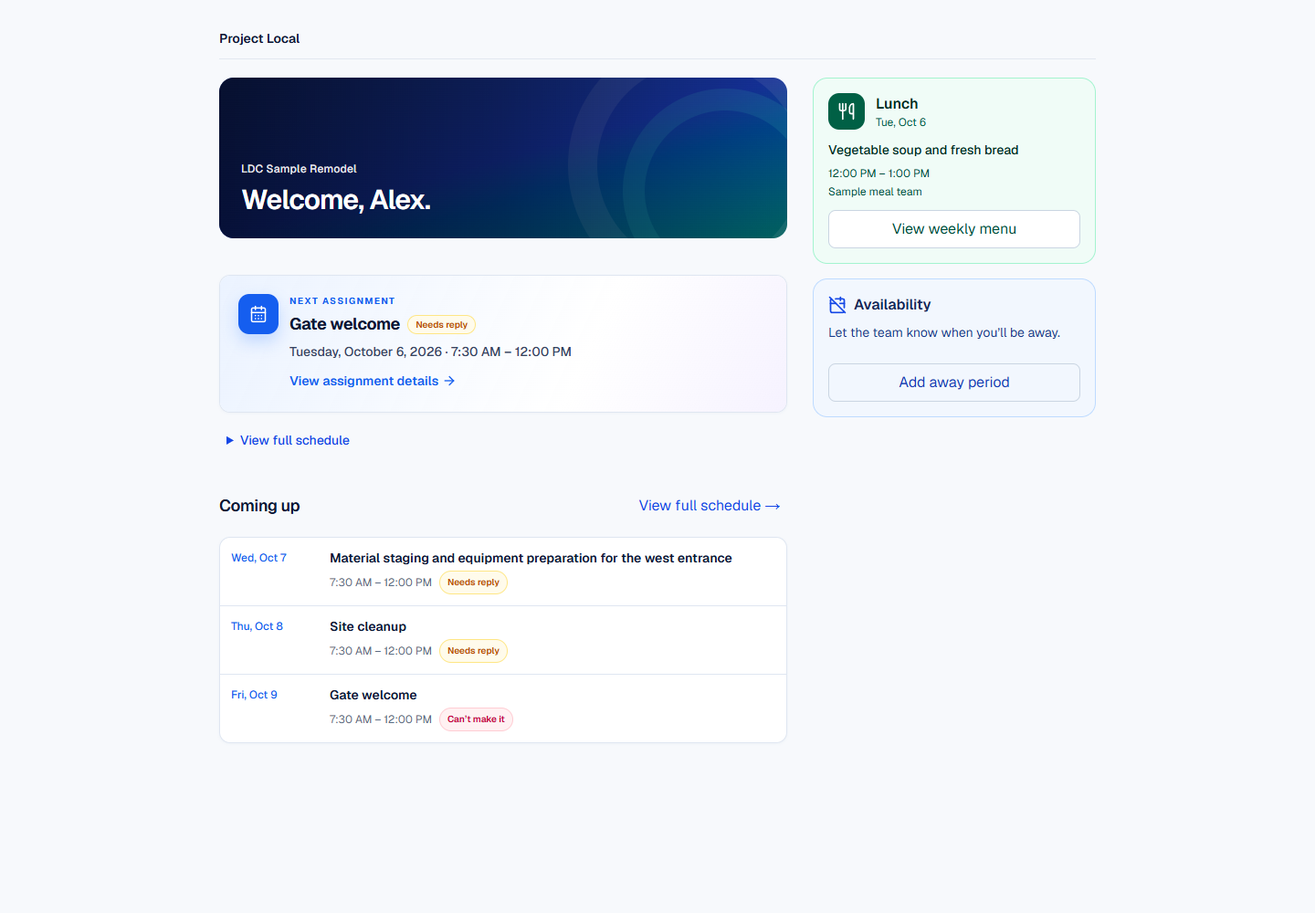
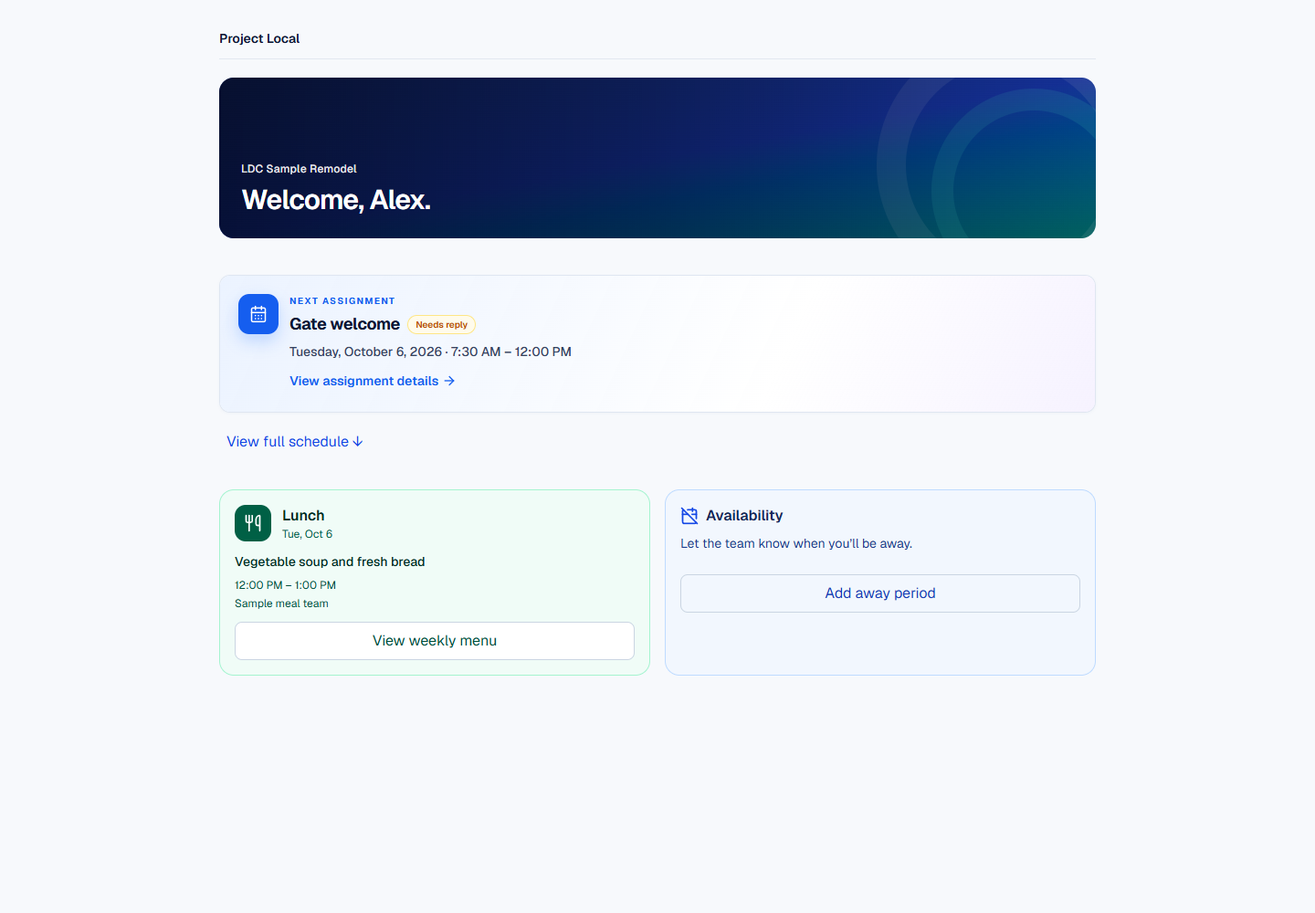
Correct volunteer home schedule to expand upcoming cards inline

diff --git a/cvc-scheduler/components/VolunteerHomeDashboard.tsx b/cvc-scheduler/components/VolunteerHomeDashboard.tsx
@@ -1,5 +1,5 @@
 "use client";
-import { useRef, useState, useTransition } from "react";
+import { useEffect, useRef, useState, useTransition } from "react";
 import { CalendarOff, ChevronLeft, ChevronRight, Utensils, X } from "lucide-react";
 import { ProjectHero } from "./ProjectHero";
 import { VolunteerScheduleClient } from "./VolunteerScheduleClient";
@@ -18,9 +18,23 @@ export function VolunteerHomeDashboard({ name, projectName, assignments, upcomin
   const [requestId, setRequestId] = useState(""), [removeId, setRemoveId] = useState<string | null>(null);
   const [pending, transition] = useTransition(); const dialog = useRef<HTMLDialogElement>(null);
   const menuDialog = useRef<HTMLDialogElement>(null), menuTrigger = useRef<HTMLButtonElement>(null);
-  const fullSchedule = useRef<HTMLDetailsElement>(null);
+  const [scheduleExpanded, setScheduleExpanded] = useState(false);
+  const scheduleToggle = useRef<HTMLButtonElement>(null);
   const next = upcoming.find(a => a.currentResponseStatus === "needs_response" && (a.canConfirm || a.canDecline)) ?? upcoming.find(a => a.currentResponseStatus !== "declined");
-  const additionalUpcoming = next ? upcoming.filter(a => a.assignmentReference !== next.assignmentReference).slice(0, 3) : [];
+  const additionalUpcoming = next ? upcoming.filter(a => a.assignmentReference !== next.assignmentReference) : [];
+  useEffect(() => {
+    if (!scheduleExpanded) return;
+    const frame = window.requestAnimationFrame(() => {
+      const toggle = scheduleToggle.current;
+      if (!toggle) return;
+      const context = Math.min(160, window.innerHeight * 0.2);
+      window.scrollTo({
+        top: Math.max(0, window.scrollY + toggle.getBoundingClientRect().top - context),
+        behavior: window.matchMedia("(prefers-reduced-motion: reduce)").matches ? "instant" : "smooth",
+      });
+    });
+    return () => window.cancelAnimationFrame(frame);
+  }, [scheduleExpanded]);
   const nextLunch = home?.meals.find(m => m.kind === "lunch" && m.date >= today);
   const week = home?.week ?? today;
   function away(command: string, id = requestId) {
@@ -35,16 +49,20 @@ export function VolunteerHomeDashboard({ name, projectName, assignments, upcomin
     transition(async () => { const value = await readMenuWeek(date.toISOString().slice(0, 10)); if (value) setHome(value); else setMenuError("Menu unavailable. Refresh to try again."); });
   }
   return <>
-    <div className="grid items-start gap-5 lg:grid-cols-[minmax(0,1fr)_310px] lg:gap-7">
-      <div className="min-w-0 lg:col-start-1 lg:row-start-1"><ProjectHero photo={home?.photo ?? defaultPhoto} projectName={projectName} title={`Welcome, ${name.trim().split(/\s+/)[0]}.`} /></div>
-      <section className="min-w-0 lg:col-start-1 lg:row-start-2" aria-label="Next assignment">
+    <div className="grid items-start gap-5 lg:gap-7">
+      <div className="min-w-0"><ProjectHero photo={home?.photo ?? defaultPhoto} projectName={projectName} title={`Welcome, ${name.trim().split(/\s+/)[0]}.`} /></div>
+      <section className="min-w-0" aria-label="Next assignment">
         {next ? <VolunteerScheduleClient presentation="next" assignments={[next]} showMeals={false} confirmAllAction={confirmAllVolunteerScheduleAction} submitResponseAction={submitVolunteerScheduleResponseAction} /> : <p className="mt-3 rounded-xl border border-slate-200 bg-white p-5 text-sm text-slate-600">No upcoming assignments yet. Your published work will appear here.</p>}
-        {assignments.length > 0 && <details ref={fullSchedule} id="volunteer-full-schedule" className="mt-2">
-          <summary className="min-h-11 cursor-pointer rounded-lg px-2 py-3 text-sm font-medium text-blue-700 focus-visible:outline-2 focus-visible:outline-blue-600">View full schedule</summary>
-          <VolunteerScheduleClient assignments={assignments} showMeals={false} confirmAllAction={confirmAllVolunteerScheduleAction} submitResponseAction={submitVolunteerScheduleResponseAction} />
-        </details>}
+        {additionalUpcoming.length > 0 && <>
+          <button ref={scheduleToggle} type="button" aria-expanded={scheduleExpanded} aria-controls="volunteer-inline-schedule" className="mt-2 flex w-fit min-h-11 items-center gap-1 rounded-lg px-2 py-3 text-sm font-medium text-blue-700 focus-visible:outline-2 focus-visible:outline-blue-600" onClick={() => setScheduleExpanded(value => !value)}>
+            {scheduleExpanded ? "Hide full schedule" : "View full schedule"} <span aria-hidden="true">{scheduleExpanded ? "↑" : "↓"}</span>
+          </button>
+          <div id="volunteer-inline-schedule" role="region" aria-label="Additional upcoming assignments" hidden={!scheduleExpanded} className="mt-2">
+            {scheduleExpanded && <VolunteerScheduleClient presentation="compact" assignments={additionalUpcoming} confirmAllAssignments={assignments} showMeals={false} confirmAllAction={confirmAllVolunteerScheduleAction} submitResponseAction={submitVolunteerScheduleResponseAction} />}
+          </div>
+        </>}
       </section>
-      <aside className={`grid min-w-0 gap-4 lg:col-start-2 lg:row-start-1 ${additionalUpcoming.length > 0 ? "lg:row-span-3" : "lg:row-span-2"}`}>
+      <aside className="grid min-w-0 gap-4 sm:grid-cols-2">
         <section className="rounded-2xl border border-emerald-200 bg-emerald-50/70 p-4" aria-label="Lunch and weekly menu">
           <div className="flex items-center gap-3"><span className="flex size-10 items-center justify-center rounded-xl bg-emerald-800 text-white"><Utensils aria-hidden className="size-5" /></span><div><h2 className="font-semibold text-emerald-950">Lunch</h2><p className="text-xs text-emerald-800">{nextLunch ? dateLabel(nextLunch.date) : "Posted project meals"}</p></div></div>
           <p className="mt-3 whitespace-pre-wrap break-words text-sm font-medium text-emerald-950">{nextLunch ? nextLunch.menu || "Menu not posted yet." : "No upcoming lunch posted for this week."}</p>
@@ -60,10 +78,6 @@ export function VolunteerHomeDashboard({ name, projectName, assignments, upcomin
           {awayError && <p role="alert" className="mt-3 text-sm text-red-800">{awayError}</p>}
         </section>
       </aside>
-      {additionalUpcoming.length > 0 && <section className="min-w-0 lg:col-start-1 lg:row-start-3" aria-label="Upcoming agenda">
-        <div className="flex flex-wrap items-center justify-between gap-x-3"><h2 className="text-lg font-semibold tracking-tight">Coming up</h2><button type="button" aria-controls="volunteer-full-schedule" className="inline-flex min-h-11 items-center gap-1 rounded-lg px-2 py-2 text-sm font-medium text-blue-700 focus-visible:outline-2 focus-visible:outline-blue-600" onClick={() => { if (fullSchedule.current) { fullSchedule.current.open = true; fullSchedule.current.scrollIntoView({ block: "start" }); fullSchedule.current.querySelector("summary")?.focus({ preventScroll: true }); } }}>View full schedule <span aria-hidden="true">→</span></button></div>
-        <VolunteerScheduleClient presentation="compact" assignments={additionalUpcoming} showMeals={false} confirmAllAction={confirmAllVolunteerScheduleAction} submitResponseAction={submitVolunteerScheduleResponseAction} />
-      </section>}
     </div>
     <dialog ref={menuDialog} onClose={() => menuTrigger.current?.focus()} className="m-auto max-h-[85dvh] w-[calc(100%-2rem)] max-w-lg overflow-y-auto rounded-2xl border border-emerald-200 bg-white p-5 shadow-xl backdrop:bg-slate-950/30"><header className="flex items-center justify-between gap-3"><h2 className="text-xl font-semibold text-emerald-950">Weekly menu</h2><button type="button" aria-label="Close weekly menu" className={control} onClick={() => menuDialog.current?.close()}><X className="size-4" /></button></header><div className="mt-3 flex items-center justify-between gap-2"><button type="button" aria-label="Previous menu week" className={control} disabled={pending} onClick={() => changeWeek(-7)}><ChevronLeft className="size-4" /></button><p className="text-xs text-emerald-950">Week of {dateLabel(week)}</p><button type="button" aria-label="Next menu week" className={control} disabled={pending} onClick={() => changeWeek(7)}><ChevronRight className="size-4" /></button></div><div className="mt-3 divide-y divide-emerald-200">{home?.meals.length ? home.meals.map(m => <article key={`${m.date}-${m.kind}`} className="py-3 text-sm"><p className="font-semibold text-emerald-950">{dateLabel(m.date)} · {m.kind === "lunch" ? "Lunch" : "Breakfast"}</p><p className="mt-1 whitespace-pre-wrap break-words text-emerald-950">{m.menu || "Menu not posted yet."}</p>{m.startTime && <p className="mt-1 text-xs text-emerald-900">{formatScheduleClockRange(m.startTime, m.endTime)}</p>}{m.provider && <p className="mt-1 text-xs text-emerald-900">{m.provider}</p>}</article>) : <p className="py-3 text-sm text-emerald-900">No meals posted this week.</p>}</div>{menuError && <p role="alert" className="mt-3 text-sm text-red-800">{menuError}</p>}</dialog>
     <dialog ref={dialog} className="m-auto max-h-[90dvh] w-[calc(100%-2rem)] max-w-lg overflow-y-auto rounded-2xl bg-white p-5 shadow-xl backdrop:bg-slate-950/30" onCancel={e => { if (pending) e.preventDefault(); }}><header className="flex items-center justify-between"><h2 className="text-xl font-semibold">Away period</h2><button type="button" aria-label="Close away period" className={control} disabled={pending} onClick={() => dialog.current?.close()}><X className="size-4" /></button></header><p className="mt-2 text-sm leading-6 text-slate-600">This records your availability. Existing assignments and responses remain unchanged.</p>

diff --git a/cvc-scheduler/docs/previews/volunteer-home-schedule/index.html b/cvc-scheduler/docs/previews/volunteer-home-schedule/index.html
@@ -1,9 +1,9 @@
 <!doctype html>
-<html lang="en"><meta charset="utf-8"><meta name="viewport" content="width=device-width,initial-scale=1"><title>Volunteer home schedule polish — review</title>
-<style>body{font:16px/1.5 system-ui,sans-serif;color:#14243b;background:#f6f8fb;margin:0}main{max-width:1200px;margin:auto;padding:24px}h1{font-size:26px}h2{font-size:20px;margin-top:36px}p{max-width:850px}.pair{display:grid;grid-template-columns:repeat(2,minmax(0,1fr));gap:20px}figure{margin:0;background:white;border:1px solid #dce3ed;border-radius:12px;padding:16px}figcaption{font-weight:600;margin-bottom:12px}img{display:block;width:100%;height:auto}a{color:#1452b8}a:focus-visible{outline:3px solid #1452b8;outline-offset:4px}.mobile img{max-width:390px;margin:auto}@media(max-width:600px){.pair{grid-template-columns:1fr}main{padding:16px}}</style>
-<main><h1>Volunteer home schedule polish</h1><p>Local review only — not deployed. All names, assignments and meal information are synthetic. Before images use the deployed baseline components; after images use the proposed frontend polish. Click an image to view it at full size.</p><p><a href="../../VOLUNTEER_HOME_SCHEDULE_POLISH_REVIEW.md">Implementation and test report</a></p>
-<section><h2>One upcoming assignment · mobile 390px</h2><div class="pair mobile"><figure><figcaption>Before</figcaption><a href="before-one-390.png"><img src="before-one-390.png" alt="before: One upcoming assignment · mobile 390px" loading="lazy"></a></figure><figure><figcaption>After</figcaption><a href="after-one-390.png"><img src="after-one-390.png" alt="after: One upcoming assignment · mobile 390px" loading="lazy"></a></figure></div></section>
-<section><h2>Multiple upcoming assignments · mobile 390px</h2><div class="pair mobile"><figure><figcaption>Before</figcaption><a href="before-multiple-390.png"><img src="before-multiple-390.png" alt="before: Multiple upcoming assignments · mobile 390px" loading="lazy"></a></figure><figure><figcaption>After</figcaption><a href="after-multiple-390.png"><img src="after-multiple-390.png" alt="after: Multiple upcoming assignments · mobile 390px" loading="lazy"></a></figure></div></section>
-<section><h2>One upcoming assignment · desktop 1440px</h2><div class="pair "><figure><figcaption>Before</figcaption><a href="before-one-1440.png"><img src="before-one-1440.png" alt="before: One upcoming assignment · desktop 1440px" loading="lazy"></a></figure><figure><figcaption>After</figcaption><a href="after-one-1440.png"><img src="after-one-1440.png" alt="after: One upcoming assignment · desktop 1440px" loading="lazy"></a></figure></div></section>
-<section><h2>Multiple upcoming assignments · desktop 1440px</h2><div class="pair "><figure><figcaption>Before</figcaption><a href="before-multiple-1440.png"><img src="before-multiple-1440.png" alt="before: Multiple upcoming assignments · desktop 1440px" loading="lazy"></a></figure><figure><figcaption>After</figcaption><a href="after-multiple-1440.png"><img src="after-multiple-1440.png" alt="after: Multiple upcoming assignments · desktop 1440px" loading="lazy"></a></figure></div></section>
-<section><h2>Additional responsive checks</h2><ul><li><a href="after-one-320.png">After: one · 320px</a></li><li><a href="after-multiple-320.png">After: multiple · 320px</a></li><li><a href="after-one-768.png">After: one · 768px</a></li><li><a href="after-multiple-768.png">After: multiple · 768px</a></li><li><a href="after-long-320.png">After: long · 320px</a></li></ul><p>The browser regression also covers no upcoming assignments, historical-only schedules, duplicate references, response-priority selection and distinct assignments with identical displayed titles and times.</p></section></main></html>
+<html lang="en"><meta charset="utf-8"><meta name="viewport" content="width=device-width,initial-scale=1"><title>Volunteer home — corrected inline schedule</title>
+<style>body{font:16px/1.5 system-ui,sans-serif;color:#14243b;background:#f6f8fb;margin:0}main{max-width:1200px;margin:auto;padding:24px}h1{font-size:26px}h2{font-size:20px;margin-top:36px}p{max-width:850px}.pair{display:grid;grid-template-columns:repeat(2,minmax(0,1fr));gap:20px;align-items:start}figure{margin:0;background:white;border:1px solid #dce3ed;border-radius:12px;padding:16px}figcaption{font-weight:600;margin-bottom:12px}img{display:block;width:100%;height:auto}a{color:#1452b8}a:focus-visible{outline:3px solid #1452b8;outline-offset:4px}.mobile img{max-width:390px;margin:auto}@media(max-width:600px){.pair{grid-template-columns:1fr}main{padding:16px}}</style>
+<main><h1>Volunteer home — corrected inline schedule</h1><p>Local review only. Not deployed. This revision replaces the unapproved schedule interaction in 8964acf. All information is synthetic. Click images to open them at full size.</p><p>One assignment has no schedule toggle. With more assignments, the single toggle expands every remaining upcoming card directly below Next Assignment. Lunch and Availability move down. There is no separate Coming up section.</p><p><a href="../../VOLUNTEER_HOME_SCHEDULE_POLISH_REVIEW.md">Implementation, visual comparison and test report</a></p>
+<section><h2>One assignment · mobile 390px</h2><div class="pair mobile"><figure><figcaption>Collapsed</figcaption><a href="after-one-390.png"><img src="after-one-390.png" alt="One assignment · mobile 390px, collapsed" loading="lazy"></a></figure></div></section>
+<section><h2>Multiple assignments · mobile 390px</h2><div class="pair mobile"><figure><figcaption>Collapsed</figcaption><a href="after-multiple-390.png"><img src="after-multiple-390.png" alt="Multiple assignments · mobile 390px, collapsed" loading="lazy"></a></figure><figure><figcaption>Expanded</figcaption><a href="after-multiple-expanded-390.png"><img src="after-multiple-expanded-390.png" alt="Multiple assignments · mobile 390px, expanded" loading="lazy"></a></figure></div></section>
+<section><h2>Multiple assignments · desktop 1440px</h2><div class="pair "><figure><figcaption>Collapsed</figcaption><a href="after-multiple-1440.png"><img src="after-multiple-1440.png" alt="Multiple assignments · desktop 1440px, collapsed" loading="lazy"></a></figure><figure><figcaption>Expanded</figcaption><a href="after-multiple-expanded-1440.png"><img src="after-multiple-expanded-1440.png" alt="Multiple assignments · desktop 1440px, expanded" loading="lazy"></a></figure></div></section>
+<section><h2>Additional screen sizes and stress cases</h2><ul><li><a href="after-one-320.png">one · 320</a></li><li><a href="after-multiple-320.png">multiple · 320</a></li><li><a href="after-multiple-expanded-320.png">multiple · expanded · 320</a></li><li><a href="after-multiple-expanded-768.png">multiple · expanded · 768</a></li><li><a href="after-many-expanded-390.png">many · expanded · 390</a></li><li><a href="after-long-additional-expanded-320.png">long · additional · expanded · 320</a></li></ul><p>The checked-in browser regression also covers two assignments, empty and historical-only schedules, duplicate references, response-priority selection, keyboard/focus, reduced motion and distinct records with identical title/date/time.</p></section>
+<details><summary>Earlier deployed-baseline comparison (historical)</summary><p>These before captures are from production-baseline component sources with the same synthetic data. The current proposal is shown above; production has not changed.</p><ul><li><a href="before-one-390.png">before-one-390.png</a></li><li><a href="before-multiple-390.png">before-multiple-390.png</a></li><li><a href="before-one-1440.png">before-one-1440.png</a></li><li><a href="before-multiple-1440.png">before-multiple-1440.png</a></li></ul></details></main></html>

diff --git a/cvc-scheduler/components/VolunteerScheduleClient.tsx b/cvc-scheduler/components/VolunteerScheduleClient.tsx
@@ -20,6 +20,7 @@ import type { VolunteerScheduleAssignment } from "@/lib/volunteerScheduleAccess/
 type VolunteerScheduleClientProps = Readonly<{
   showMeals?: boolean;
   presentation?: "default" | "next" | "compact";
+  confirmAllAssignments?: readonly VolunteerScheduleAssignment[];
   assignments: readonly VolunteerScheduleAssignment[];
   confirmAllAction: () => Promise<VolunteerScheduleActionResult>;
   submitResponseAction: (formData: FormData) => Promise<VolunteerScheduleActionResult>;
@@ -79,6 +80,7 @@ export function VolunteerScheduleClient({
   showMeals = true,
   presentation = "default",
   assignments,
+  confirmAllAssignments = assignments,
   confirmAllAction,
   submitResponseAction,
 }: VolunteerScheduleClientProps) {
@@ -94,7 +96,7 @@ export function VolunteerScheduleClient({
   const selected = assignments.find(
     (assignment) => assignment.assignmentReference === selectedId,
   );
-  const confirmAllCount = assignments.filter(
+  const confirmAllCount = confirmAllAssignments.filter(
     (assignment) =>
       assignment.currentResponseStatus === "needs_response" && assignment.canConfirm,
   ).length;
@@ -155,7 +157,7 @@ export function VolunteerScheduleClient({
 
   return (
     <>
-      <div className="mt-3 space-y-3">
+      <div className={presentation === "compact" ? "space-y-3" : "mt-3 space-y-3"}>
         {showMeals && assignments.filter((assignment, index) => assignment.meals?.length && assignments.findIndex(other => other.startDate === assignment.startDate) === index).map(assignment => (
           <section key={assignment.startDate} aria-label={`Meals for ${assignment.startDate}`} className="rounded-xl border border-amber-200 bg-amber-50 p-4 text-amber-950">
             <h2 className="text-sm font-bold">Meals · {formatDate(assignment.startDate)}</h2>
@@ -169,7 +171,7 @@ export function VolunteerScheduleClient({
             </div>
           </section>
         ))}
-        {presentation !== "compact" && confirmAllCount > 1 ? (
+        {confirmAllCount > 1 ? (
           <div className="flex items-center justify-between gap-3 rounded-xl border border-emerald-200 bg-emerald-50 px-3 py-2 sm:px-4 sm:py-2.5">
             <p className="text-xs font-medium leading-5 text-emerald-900 sm:text-sm">
               {confirmAllCount} assignments need your response.
@@ -202,7 +204,7 @@ export function VolunteerScheduleClient({
             {actionNotice.message}
           </div>
         ) : null}
-        <div className="overflow-hidden rounded-[var(--pl-radius-panel)] border border-[var(--pl-border)] bg-white shadow-[var(--pl-shadow-panel)]">
+        <div className={presentation === "compact" ? "grid gap-2" : "overflow-hidden rounded-[var(--pl-radius-panel)] border border-[var(--pl-border)] bg-white shadow-[var(--pl-shadow-panel)]"}>
         {assignments.map((assignment) => {
           if (presentation === "compact") return (
             <button
@@ -212,15 +214,15 @@ export function VolunteerScheduleClient({
                 returnFocusRef.current = event.currentTarget;
                 setSelectedId(assignment.assignmentReference);
               }}
-              className="grid min-h-11 w-full min-w-0 grid-cols-[4.5rem_minmax(0,1fr)] items-start gap-3 border-t border-[var(--pl-border)] px-3 py-3 text-left first:border-t-0 hover:bg-[var(--pl-surface-subtle)] focus-visible:outline-2 focus-visible:outline-offset-[-2px] focus-visible:outline-blue-600 sm:grid-cols-[6rem_minmax(0,1fr)]"
+              className="grid min-h-11 w-full min-w-0 grid-cols-[32px_minmax(0,1fr)] items-start gap-3 rounded-xl border border-[var(--pl-border)] bg-blue-50/40 px-3 py-3 text-left hover:bg-[var(--pl-surface-subtle)] focus-visible:outline-2 focus-visible:outline-offset-2 focus-visible:outline-blue-600 sm:px-4"
             >
-              <span className="text-xs font-medium leading-5 text-[var(--pl-blue)]">{new Intl.DateTimeFormat("en-US", { weekday: "short", month: "short", day: "numeric", timeZone: "UTC" }).format(new Date(assignment.startDate + "T12:00Z"))}</span>
+              <span className="flex size-8 items-center justify-center rounded-lg bg-[var(--pl-blue-soft)] text-[var(--pl-blue)]"><CalendarDays aria-hidden="true" className="size-4" strokeWidth={1.8} /></span>
               <span className="min-w-0">
-                <span className="block break-words text-sm font-semibold text-[var(--pl-ink)]">{assignment.taskTitle}</span>
-                <span className="mt-1 flex flex-wrap items-center gap-x-2 gap-y-1 text-xs leading-5 text-[var(--pl-muted)]">
-                  <span>{formatScheduleClockRange(assignment.startTime, assignment.endTime) ?? "No specific time"}</span>
+                <span className="flex flex-wrap items-center gap-x-2 gap-y-1">
+                  <span className="min-w-0 max-w-full break-words text-sm font-semibold text-[var(--pl-ink)]">{assignment.taskTitle}</span>
                   <span className={`inline-flex shrink-0 rounded-full border px-2 py-0.5 text-[10px] font-semibold ${responseStyles[assignment.currentResponseStatus]}`}>{responseLabels[assignment.currentResponseStatus]}</span>
                 </span>
+                <span className="mt-1 block text-xs leading-5 text-[var(--pl-muted)]">{dateTimeLabel(assignment)}</span>
               </span>
             </button>
           );

diff --git a/cvc-scheduler/docs/VOLUNTEER_HOME_SCHEDULE_POLISH_REVIEW.md b/cvc-scheduler/docs/VOLUNTEER_HOME_SCHEDULE_POLISH_REVIEW.md
@@ -1,50 +1,61 @@
-# Volunteer home schedule polish
+# Volunteer home schedule polish — corrected inline interaction
 
-Status: implemented locally, ready for review; not deployed or merged. Development branch: `codex/volunteer-home-schedule-polish`, based on release-closeout commit `c939bb0`. The original Task Details branch is preserved. Production baseline for the visual comparison is `0efa0427e8cc0290ab87d70ecbafb759afdcbf7a`.
+Status: local implementation, awaiting visual review. **Not deployed or merged.** This revision supersedes the unapproved interaction in `8964acf` on `codex/volunteer-home-schedule-polish`. The Task Details production release and its original development branch remain unchanged.
 
-## Result
+## Corrected experience
 
-The Next assignment card now says **View assignment details →**, opening the existing assignment sheet. Its secondary **View full schedule** disclosure opens the existing full schedule inline. The awkward count label and bottom schedule footer are removed.
+The existing Next Assignment card retains **View assignment details →**, the original assignment prioritization and the existing detail sheet.
 
-With one upcoming assignment, Coming up is omitted entirely. With additional upcoming assignments, it contains at most three compact date/title/time/status rows and a clearly labeled full-schedule action. That action opens and focuses the same full-schedule disclosure. Assignment identity, rather than title or object identity, excludes Next from the preview and selects the correct sheet.
+When Next is the only upcoming assignment, there is no schedule toggle, schedule section or Coming up heading. Lunch follows the card naturally, then Availability. With no upcoming assignments, the existing useful empty state remains; historical assignments do not cause an empty upcoming schedule to appear.
 
-The existing Next selection prioritizes actionable pending responses over confirmed assignments. This behavior is unchanged: if Next is a later pending assignment, an earlier confirmed upcoming assignment remains available in the preview. Other upcoming items retain the supplied chronological order. The preview does not introduce a partial Confirm All action; the existing complete-schedule action is unchanged.
+When other upcoming assignments exist, **View full schedule ↓** appears directly beneath Next. Keyboard or pointer activation changes it to **Hide full schedule ↑** and inserts **every remaining upcoming assignment**, without a three-row limit or duplication of Next. Collapsing unmounts those rows. There is one expansion, no lower disclosure and no separate Coming up section.
 
-The useful no-upcoming empty state remains. If there are historical assignments, the full schedule remains accessible beside that state without an empty Coming up section. Lunch and Availability content and behavior are unchanged.
+Each additional assignment is a compact rounded card with the shared calendar icon, task title, existing response-status chip, scheduled date/day and time. It uses the same authorized data and assignment-reference selection as the existing sheet. Distinct records with identical displayed title/date/time are tested using their different saved instructions.
 
-## Visual comparison
+Lunch and Availability now follow the schedule region at every width, moving downward when it expands. Their contents and controls are unchanged. On tablet/desktop those two sections share a row beneath the schedule; on phones they remain stacked.
 
-[Before/after gallery](previews/volunteer-home-schedule/index.html) uses synthetic information and the actual components. Before captures load the deployed baseline component sources through `git show`; after captures load the working components with identical fixtures.
+The existing Next prioritization can choose a later actionable pending assignment ahead of an earlier confirmed assignment. That behavior is preserved. The earlier confirmed assignment remains in the expanded list, in the supplied order. No scheduling semantics or sorting contract changed.
 
-Reviewed 320px and 390px mobile, 768px tablet and 1440px desktop. The single-assignment page ends naturally after Availability. Additional assignments use thin rows rather than large cards. Existing typography, status colors and sheet hierarchy remain. Long ordinary titles wrap cleanly; an intentionally unbroken title wraps within the card without horizontal overflow.
+The existing Confirm All action remains available inside the expanded schedule when applicable. Its count uses the complete existing authorized assignment collection, including Next, rather than mistakenly counting only the displayed additional cards. Its server action and safeguards are unchanged. Other consumers of the shared schedule component retain their default presentation and behavior.
 
-The comparison identified a 10px desktop offset between the title and new details action. It was corrected. Browser measurements now require their left edges to match within 0.5px at every tested width. Named actions have at least 44px targets. Full-schedule opening, dialog focus containment, Escape/close, focus restoration and visible close controls were checked in the rendered browser, including narrow screens. No extra empty grid row remains when Coming up is omitted.
+## Scroll and accessibility
 
-## Executed verification — 2026-09-28
+After React renders the expansion, a cancellable animation-frame callback scrolls to the toggle with up to 160px (or 20% of viewport height) of Next context above it. It uses smooth scrolling normally and an immediate scroll for `prefers-reduced-motion: reduce`. Short pages naturally clamp to the available scroll extent. This is a local expansion, not navigation to another anchor.
+
+Focus stays on the toggle during expansion/collapse. Its visible label, `aria-expanded` and `aria-controls` describe the state and associated region. Collapsed cards are unmounted. Whole-card buttons retain keyboard activation, the existing sheet focus boundary, Escape/close and focus restoration. Controls meet a 44px minimum target.
+
+## Visual review
+
+[Updated screenshot gallery](previews/volunteer-home-schedule/index.html) shows the current one-assignment mobile state, multiple-assignment collapsed and expanded mobile states, and expanded desktop state. Supplemental captures cover 320px, 768px, many assignments and an intentionally unbroken long title. All information is synthetic.
+
+The final comparison checks spacing, alignment, typography, hierarchy and mobile usability. Expanded cards begin directly under the Next toggle; Lunch and Availability follow them, never precede them. The compact cards reuse the icon/chip language, subtle blue surface and border, with 8px gaps. Their title/status wrap at narrow widths without overflow. The named Next action remains aligned with the title. The one-assignment page has no leftover toggle margin or empty Coming up row.
+
+Rendered measurements verify the inline region begins 8px below its toggle (within 2px), Lunch moves downward, all upcoming cards appear, and no second schedule destination exists. Scroll targets and actual clamped browser positions are compared. Smooth and reduced-motion paths are both exercised. Final screenshots are local evidence; this change has not been deployed.
+
+## Executed checks — 2026-09-28
 
 | Check | Result |
 | --- | --- |
+| `node scripts/volunteer-home-schedule-browser-regression.mjs` | Passed unmodified: one/two/multiple/many/empty/historical-only/long-title/duplicate-reference/priority/same-title states at 320/390/768/1440; all upcoming cards, inline placement, scroll/reduced motion, keyboard/focus, exact selection and zero mutation/provider requests |
+| Complete `volunteer-schedule-responses-browser-regression.mjs` | Passed unmodified against a fresh local production build: Confirm/decline, denial notes, Confirm All, reload persistence, maximum-length instructions, narrow/mobile layouts, token safety, anonymous denial and disposable cleanup |
+| `volunteer-schedule-access-regression.mjs` | Passed real local issuance, scope/filtering, revocation, direct-table denial and cleanup |
+| `volunteer-schedule-responses-regression.mjs` | Passed real local response persistence, isolation, locks and token boundaries |
+| `assignment-notification-email-regression.mjs` | Passed claim/finalize, deduplication, retry and recording-transport safety |
+| `resend-initial-assignment-email-regression.mjs` | Passed resend safeguards, idempotency and safe-provider checks |
+| `volunteer-home-photo-regression.mjs` | Passed local menu/meals, away periods, project isolation and photo boundaries |
+| Fresh local production `next build` | Passed after the final application edits |
 | `npm run lint` | Passed |
 | `npx tsc --noEmit` | Passed |
-| Fresh `next build` with local Supabase environment | Passed; repeated after the final application adjustment |
-| `node scripts/volunteer-home-schedule-browser-regression.mjs` | Passed unmodified: one/multiple/empty/past/long/duplicate/priority/same-day fixtures at 320/390/768/1440; exact item selection, bounded preview, keyboard/focus, no overflow and zero mutation/provider requests |
-| Same script with `--before` | Captured the deployed component baseline with synthetic fixtures |
-| Complete `volunteer-schedule-responses-browser-regression.mjs` | Passed unmodified against a fresh local production build: Confirm/decline, notes, Confirm All, reload persistence, mobile, safe cookies and disposable cleanup |
-| `volunteer-schedule-access-regression.mjs` | Passed real local access issuance, filtering, revocation, direct-table denial and cleanup |
-| `volunteer-schedule-responses-regression.mjs` | Passed real local response persistence, isolation, lock and response-token boundaries |
-| `assignment-notification-email-regression.mjs` | Passed claim/finalize, deduplication, retry and recording-transport checks |
-| `resend-initial-assignment-email-regression.mjs` | Passed resend confirmation/idempotency and safe-provider checks |
-| `volunteer-home-photo-regression.mjs` | Passed local menu, meals, away-period, project isolation and photo boundaries |
 | `git diff --check` | Passed |
 
-Real database suites ran serially against disposable local Supabase fixtures, not production. The access/response/notification suites used the checked-in `final-product-readiness-local.mjs` wrapper with Node `--conditions=react-server --no-warnings --experimental-strip-types`. Browser/home suites used the same Node flags with loopback Supabase and an owned loopback production server. Real email providers were disabled; recording transports were used for notification tests. No real email was sent.
+The full response-browser harness was updated only for this changed presentation: its schedule locator now includes Next plus the inline cards, its opener activates the named button, and its obsolete per-row “Review & respond” assertion now requires the existing Needs reply status on each selectable pending card. All actual response, persistence, authorization, maximum-instruction, notification and cleanup assertions remain.
 
-Local verification receipts were captured at `2026-09-28T23:08:11.712Z` for the full real-data set and `2026-09-28T23:11:28.894Z` for the final production build and complete response-browser rerun. Ignored local runner artifacts are excluded from the review commit.
+Real database suites ran serially against disposable local Supabase fixtures. The access/response/notification suites used the checked-in `final-product-readiness-local.mjs` wrapper and Node `--conditions=react-server --no-warnings --experimental-strip-types`. The full browser/home suites used the same flags, loopback Supabase and an owned loopback production server. The fresh-build/full-suite receipt is recorded locally at `2026-09-28T23:31:20Z` (rounded to seconds). Real email providers were disabled; notification tests used recording transports. No real email was sent.
 
-## Scope and limits
+The isolated focused browser harness strips credentials/providers, blocks non-loopback requests and asserts no mutation requests. Its temporary fixture app is absent from the production application and navigation; its owned server/browser/dependency junction are cleaned up.
 
-Application changes are confined to `VolunteerHomeDashboard.tsx` and presentation variants in `VolunteerScheduleClient.tsx`. No changes to authentication, session credentials, projections, privacy, response handlers, meals, away actions, notifications, schema, RPCs, RLS, Quick View, Calendar or storage. No site-map or Batch 3 work.
+## Boundaries and limitations
 
-The new visual harness creates an isolated temporary app, strips credentials and provider configuration, blocks non-loopback requests and asserts zero mutation requests. Its fixture routes are absent from the application and production navigation. Temporary server, browser and dependency junction are cleaned up.
+Application edits remain confined to `VolunteerHomeDashboard.tsx` and presentation/count context in `VolunteerScheduleClient.tsx`. No authentication, schedule-session credentials, server projections, instruction privacy, response handlers, meals, away actions, email delivery, schema, RPCs, RLS, Quick View, Calendar or storage changes. No site-map or Batch 3 work.
 
-Production was not accessed or changed for this task. These screenshots demonstrate local rendering, not a production deployment. Existing unrelated untracked previews and release-check directory were preserved. This work does not resolve the previously documented development Server Action transport issue, production busy-month latency, desktop assigned-person ellipsis limitation or site-map upload/recovery readiness.
+Production was not accessed or changed for this correction. Existing unrelated untracked previews and the release-check directory were preserved. The previously documented development Server Action transport issue, production busy-month latency, desktop assigned-person ellipsis limitation and site-map recovery/upload readiness remain outside this task.
